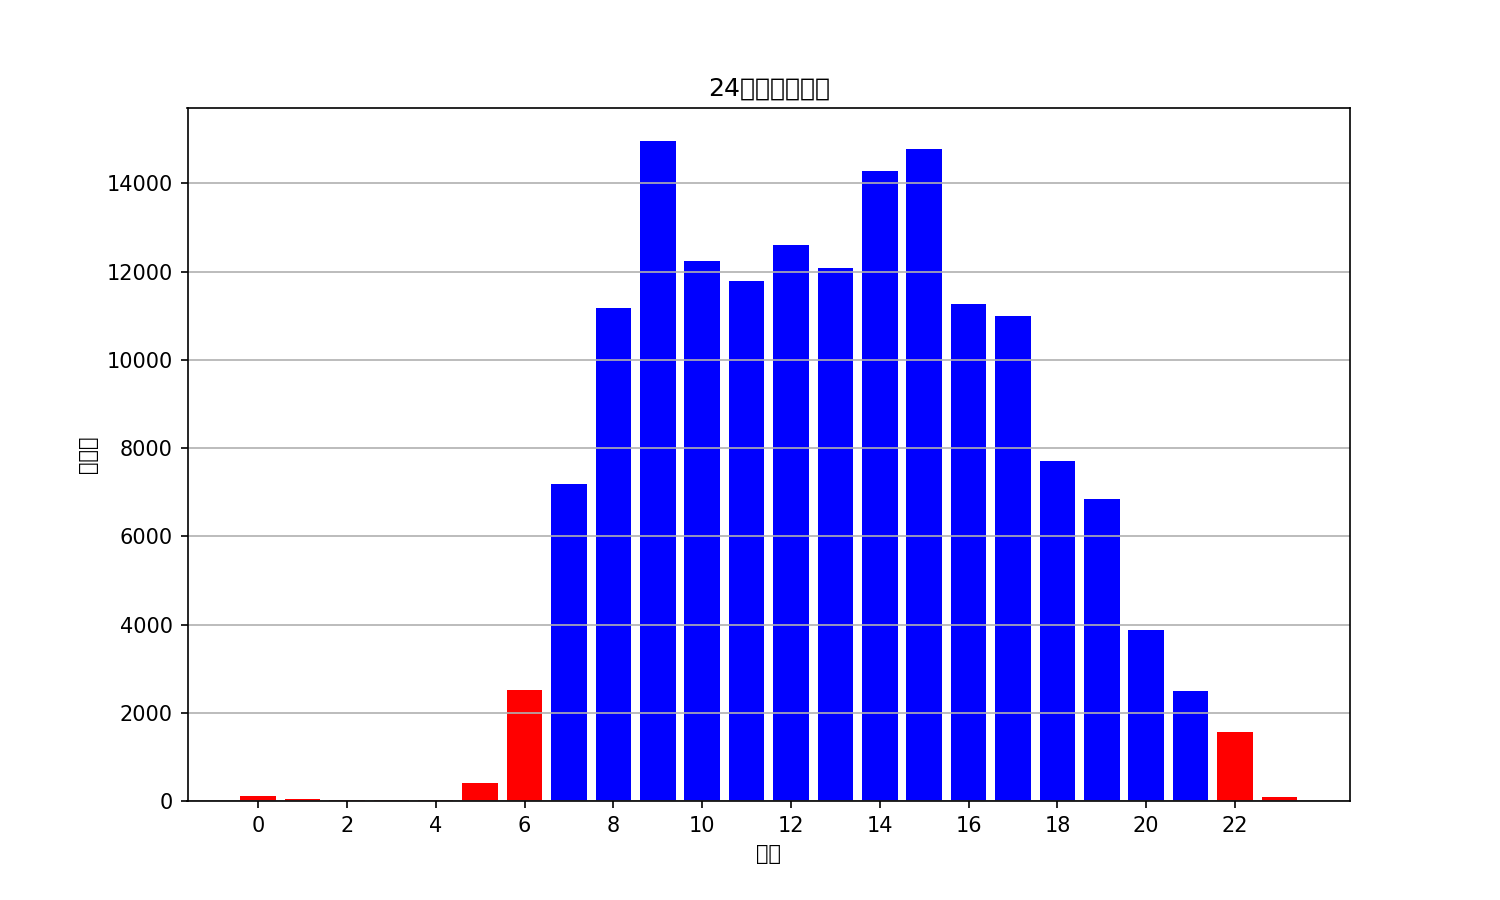
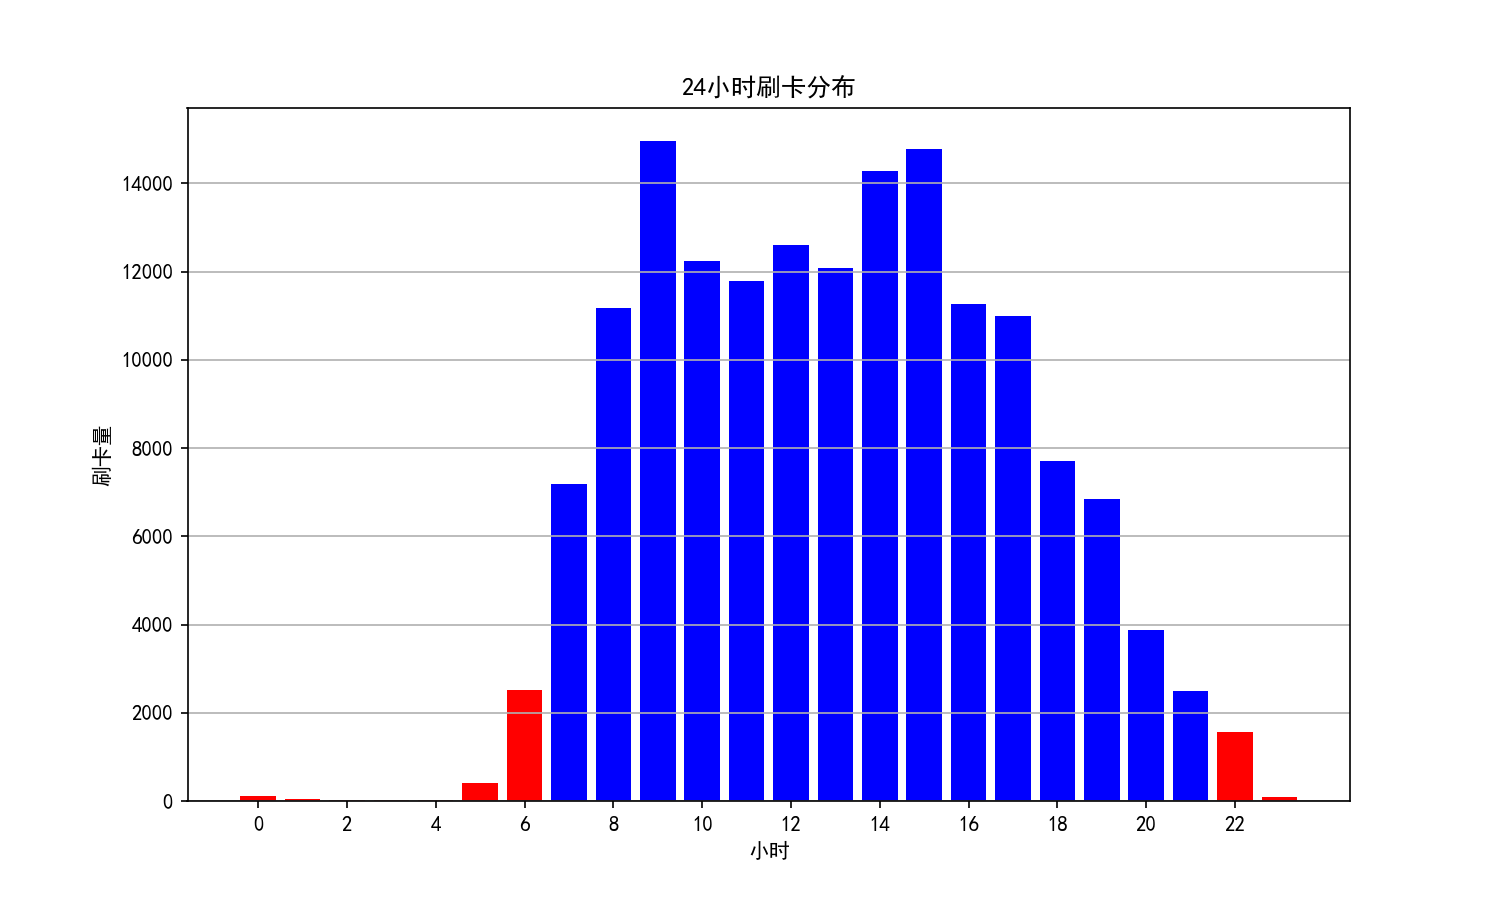
fix: 修正任务3线路站点图坐标轴显示问题

diff --git a/main.py b/main.py
@@ -66,3 +66,67 @@ plt.grid(axis='y')
 
 plt.savefig("hour_distribution.png", dpi=150)
 plt.show()
+
+# 任务3：线路站点分析
+# =========================
+
+def analyze_route_stops(df, route_col='线路号', stops_col='ride_stops'):
+    """
+    计算各线路乘客的平均搭乘站点数及其标准差。
+    Parameters
+    ----------
+    df : pd.DataFrame  预处理后的数据集
+    route_col : str    线路号列名
+    stops_col : str    搭乘站点数列名
+    Returns
+    -------
+    pd.DataFrame  包含列：线路号、mean_stops、std_stops，按 mean_stops 降序排列
+    """
+    result = df.groupby(route_col)[stops_col].agg(
+        mean_stops='mean',
+        std_stops='std'
+    ).reset_index()
+
+    result = result.sort_values(by='mean_stops', ascending=False)
+    return result
+
+
+# 调用函数
+route_result = analyze_route_stops(df)
+
+print("各线路平均搭乘站点数及标准差（前10行）：")
+print(route_result.head(10))
+
+# 取前15条线路
+top15_routes = route_result.head(15).copy()
+
+# 把线路号转成字符串，防止 seaborn 当成连续数值
+top15_routes['线路号'] = top15_routes['线路号'].astype(str)
+
+plt.figure(figsize=(12, 8))
+
+ax = sns.barplot(
+    data=top15_routes,
+    x='mean_stops',
+    y='线路号',
+    palette='Blues_d'
+)
+
+# 手动添加误差棒
+plt.errorbar(
+    x=top15_routes['mean_stops'],
+    y=np.arange(len(top15_routes)),
+    xerr=top15_routes['std_stops'],
+    fmt='none',
+    ecolor='black',
+    capsize=3
+)
+
+plt.title("平均搭乘站点数最高的前15条线路")
+plt.xlabel("平均搭乘站点数")
+plt.ylabel("线路号")
+plt.xlim(left=0)
+
+plt.tight_layout()
+plt.savefig("route_stops.png", dpi=150)
+plt.show()
